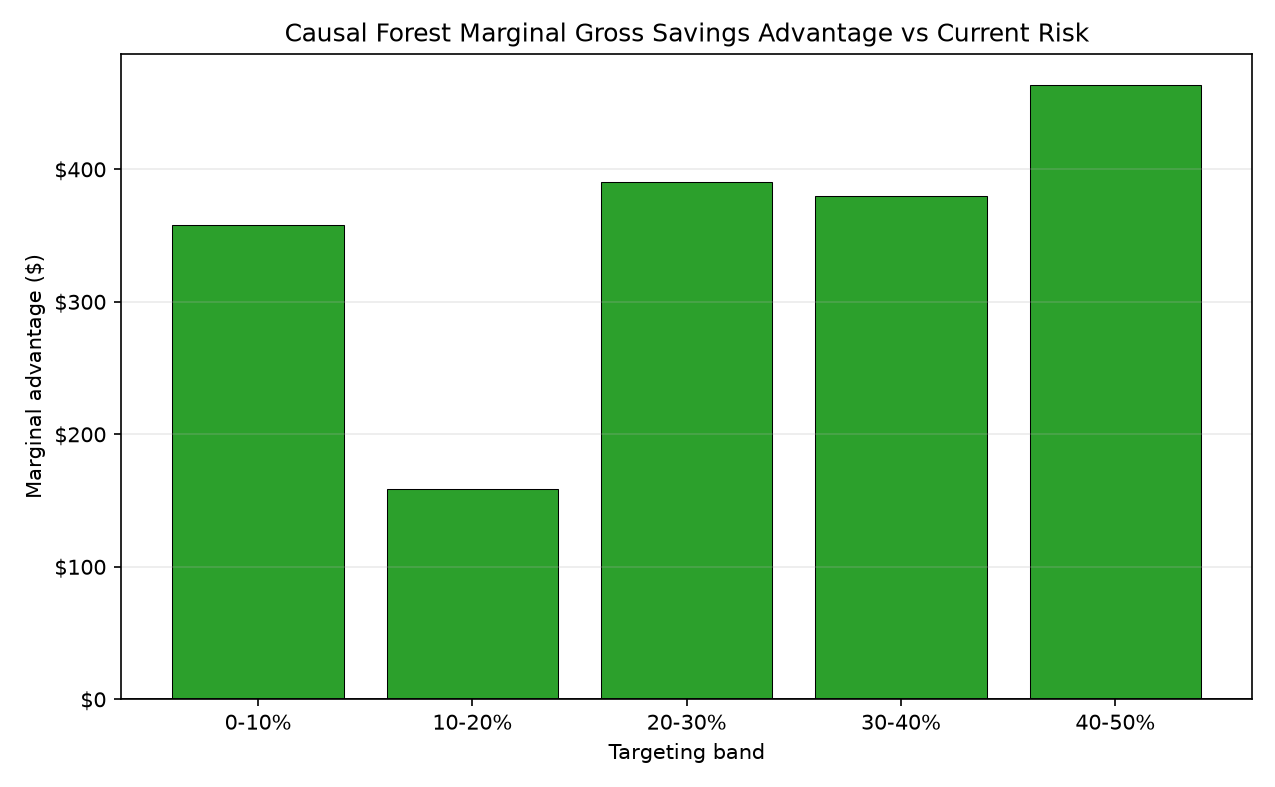
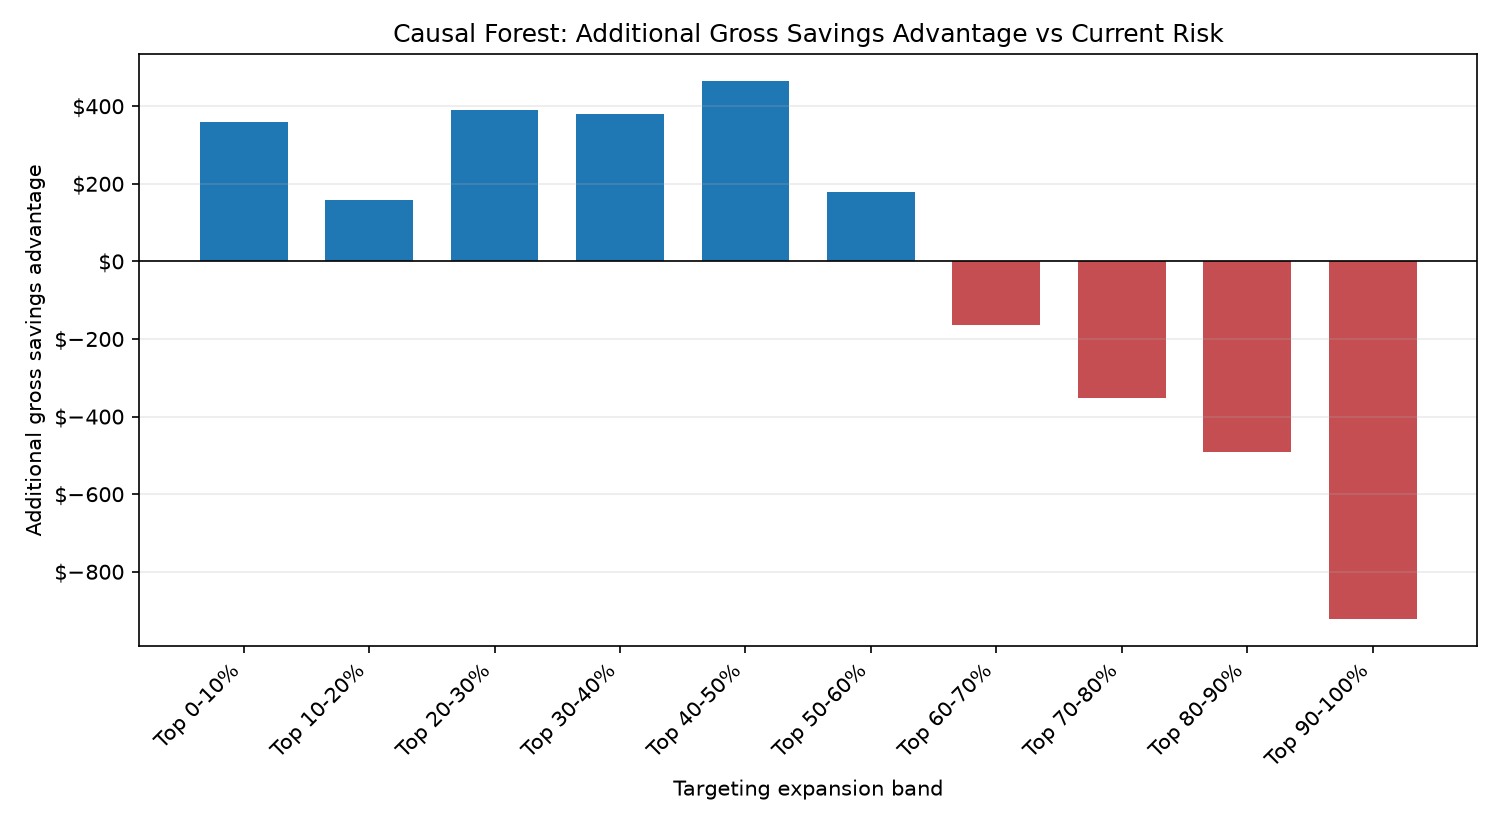
Regenerate marginal advantage chart with all 10 bands, blue/red coloring matching uplift style

diff --git a/PRISM_Causal_Forest_Modeling_README.md b/PRISM_Causal_Forest_Modeling_README.md
@@ -587,7 +587,7 @@ This view compares two targeting policies on the same held-out test population: 
 ![Causal forest cumulative gross savings by targeting approach](Outputs/Causal-Forests/Python/dashboard_cumulative_gross_savings_targeting.png)
 <!-- AUTO_CHART:causal_forest_roi_by_decile END -->
 
-The chart below compares the additional gross savings from each causal forest targeting band against the additional gross savings from selecting the same number of members by current risk. Positive bars mean benefit-based targeting adds more estimated value than the current-risk approach for that band; negative bars mean the current-risk approach adds more estimated value for that band. In this run, causal forest benefit targeting has positive marginal advantage across all five bands (0-10% through 40-50%), meaning each additional 10% targeting band captures more estimated gross savings than the current-risk approach.
+The chart below compares the additional gross savings from each causal forest targeting band against the additional gross savings from selecting the same number of members by current risk. Positive bars (blue) mean benefit-based targeting adds more estimated value than the current-risk approach for that band; negative bars (red) mean the current-risk approach adds more estimated value for that band. In this run, the causal forest has positive marginal advantage through the top 60%, then turns negative in the 60-70% through 90-100% bands.
 
 <!-- AUTO_CHART:causal_forest_marginal_advantage START -->
 ![Causal forest marginal gross savings advantage versus current risk](Outputs/Causal-Forests/Python/dashboard_marginal_gross_savings_advantage_vs_current_risk.png)
